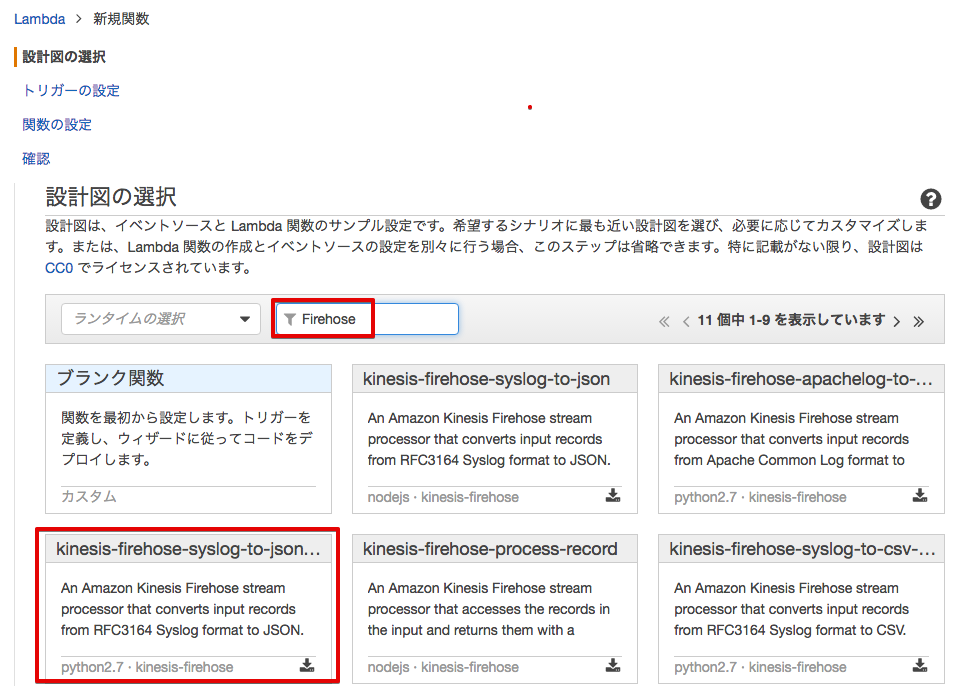
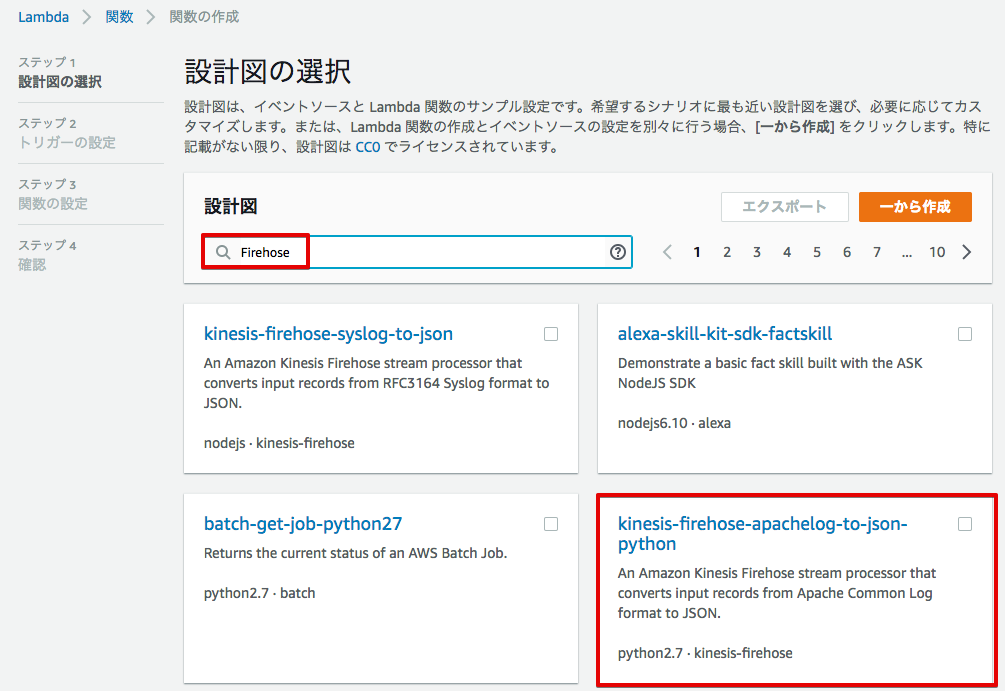
Update

Changed region(s): [[0.0, 0.0, 0.999, 1.0], [0.1873, 0.0611, 0.999, 0.2445], [0.0624, 0.7031, 0.1249, 0.7336]]

diff --git a/docs/05.rst b/docs/05.rst
@@ -97,6 +97,8 @@ https://s3-ap-northeast-1.amazonaws.com/awsiot-handson-dojo-jp/ranger-raw-data-t
 
 |
 
+この画面が表示されない場合は、Lambdaの関数の画面から、[関数の作成] ボタンをクリックします。
+
 Lambda関数の作成画面が表示されるので、サーチボックスに"Firehose"と入力し、"kinesis-firehose-syslog-to-json-python"をクリックします。
 
 .. image:: images/05/lambda-3.png
